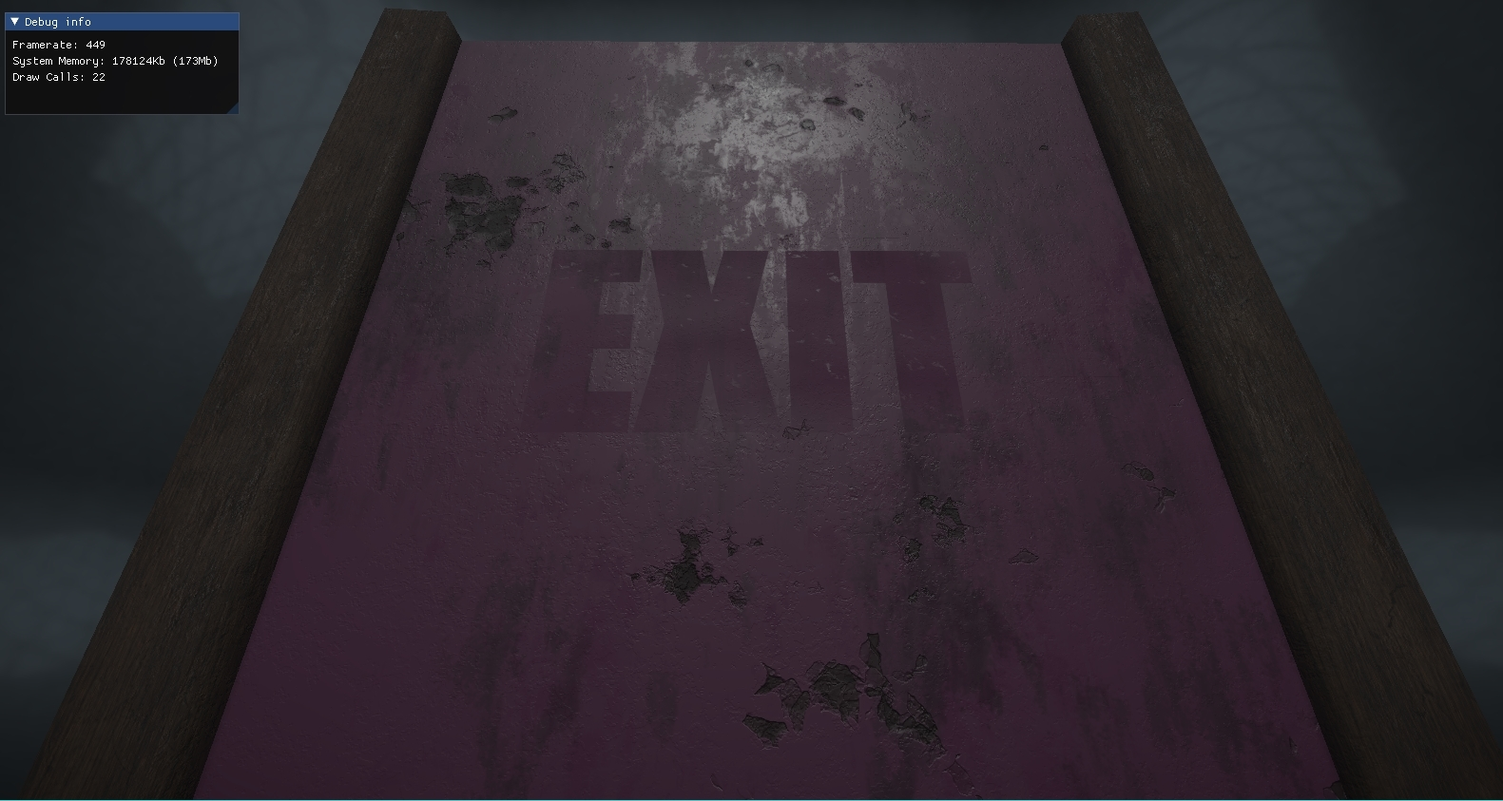
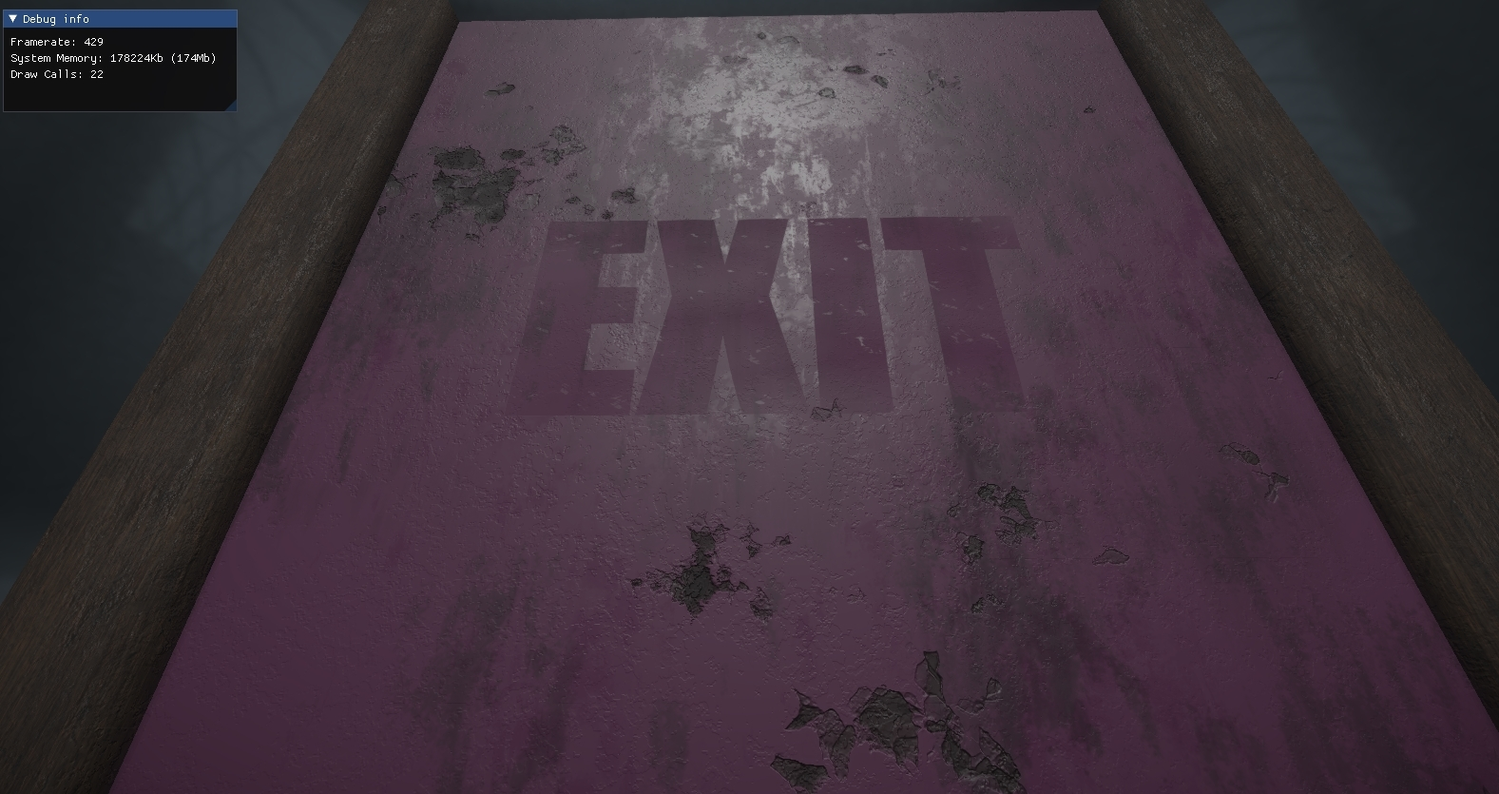
finished decal post

diff --git a/docs/2021-03-01/deferred-decals.html b/docs/2021-03-01/deferred-decals.html
@@ -97,7 +97,7 @@
         <article class="hentry">
 
             <div class="featured-image">
-            <img src="" style="width:100%">
+            <img src="/images/decal.gif" style="width:100%">
             </div>
 
             <!-- MAIN -->
@@ -119,19 +119,129 @@
 <h2 id="introduction">Introduction</h2>
 
 <p>I implemented deferred decals for our seventh game project at The Game Assembly.
-The decals were exported from Unity and rendered to the GBuffer in three separate passes depending on which textures to use; albedo, normal or “material”.</p>
+The decals were exported from Unity and rendered to the G-Buffer in three separate passes depending on which textures to use; albedo, normal or “material” (containing metalness, roughness, emissive and detail normal strength).</p>
 
-<p>Using three separate passes, there is no need to copy the GBuffer and you have higher flexibility regarding which textures to use and how to alpha blend the results.</p>
+<p>Using three separate passes, there is no need to copy the G-Buffer and you have higher flexibility regarding which textures to use and how to alpha blend the results.
+I chose to use a cube volume for projection due to its simplicity, held by the renderer and scaled by the game object transform component.</p>
 
 <h2 id="implementation">Implementation</h2>
 
-<p>I chose to use a cube volume for projection due to its simplicity, held by the renderer and scaled by the game object transform component.</p>
+<p>A decal factory receives data from the Unity export, including the filepath to a directory of textures to be used by the decal, and three flags representing which render passes to run for this specific decal. 
+The albedo, material and normal (also containing ambient occlusion information) textures are requested from a material handler utility, being set to <code class="language-plaintext highlighter-rouge">nullptr</code> should they not exist rather than receiving a pointer to an error texture. 
+Should any of the textures be <code class="language-plaintext highlighter-rouge">nullptr</code>, their respective flags are set to false.</p>
+
+<p>The decal render pass is run right after rendering the G-Buffer. If the three decal render passes were not separated, we would set the whole G-Buffer as our render target.
+If we then want to render different sets of textures for every decal, we would need to copy the whole G-Buffer and sample it in the shader so as to not overwrite the normals when we aren’t interested in the normals of the decal, for example. 
+The normal texture is still bound as a render target, and if we do not discard the run of the entire fragment shader (which we might not want) we are going to overwrite the G-Buffer normals.</p>
+
+<p><em>In the below GIFs there is no copying of the G-Buffer, and there is no writing to the material target (left) or normals target (right), even though they are still bound as render targets.</em></p>
+
+<center>
+    <div class="photoset-grid-custom" data-layout="2">
+        <img src="/images/missing_material.gif" />
+        <img src="/images/missing_normals.gif" />
+    </div>
+</center>
+
+<p>That said, if every decal we render renders information to the same targets, this is not an issue, and it becomes cheaper to make only one draw call.</p>
+
+<p>Since we wanted the freedom to render decals to any subset of the G-Buffer, I decided to render decals in different passes to avoid copying the G-Buffer. With this setup, different render targets can be set for every shader and you are guaranteed to not overwrite.</p>
+
+<details>
+  <summary><strong>View Code</strong></summary>
+
+  <div class="language-c++ highlighter-rouge"><div class="highlight"><pre class="highlight"><code><span class="kt">void</span> <span class="n">CDecalRenderer</span><span class="o">::</span><span class="n">Render</span><span class="p">(...)</span>
+<span class="p">{</span>
+    <span class="c1">// ... Bind state common to all decals</span>
+    
+    <span class="k">for</span> <span class="p">(</span><span class="k">auto</span><span class="o">&amp;</span> <span class="n">gameObject</span> <span class="o">:</span> <span class="n">someDecalGameObjects</span><span class="p">)</span>
+	<span class="p">{</span>
+		<span class="n">CDecalComponent</span><span class="o">*</span> <span class="n">decalComponent</span> <span class="o">=</span> <span class="n">gameObject</span><span class="o">-&gt;</span><span class="n">GetComponent</span><span class="o">&lt;</span><span class="n">CDecalComponent</span><span class="o">&gt;</span><span class="p">();</span>
+
+		<span class="n">CDecal</span><span class="o">*</span> <span class="n">decal</span> <span class="o">=</span> <span class="n">decalComponent</span><span class="o">-&gt;</span><span class="n">GetMyDecal</span><span class="p">();</span>
+		<span class="k">const</span> <span class="n">CDecal</span><span class="o">::</span><span class="n">SDecalData</span><span class="o">&amp;</span> <span class="n">decalData</span> <span class="o">=</span> <span class="n">decal</span><span class="o">-&gt;</span><span class="n">GetDecalData</span><span class="p">();</span>
+
+		<span class="n">myObjectBufferData</span><span class="p">.</span><span class="n">myToWorld</span> <span class="o">=</span> <span class="n">gameObject</span><span class="o">-&gt;</span><span class="n">myTransform</span><span class="o">-&gt;</span><span class="n">GetWorldMatrix</span><span class="p">();</span>
+		<span class="n">myObjectBufferData</span><span class="p">.</span><span class="n">myToObjectSpace</span> <span class="o">=</span> <span class="n">gameObject</span><span class="o">-&gt;</span><span class="n">myTransform</span><span class="o">-&gt;</span><span class="n">GetWorldMatrix</span><span class="p">().</span><span class="n">Invert</span><span class="p">();</span>
+		<span class="n">BindBuffer</span><span class="p">(</span><span class="n">myObjectBuffer</span><span class="p">,</span> <span class="n">myObjectBufferData</span><span class="p">,</span> <span class="s">"Object Buffer"</span><span class="p">);</span>
+
+		<span class="n">myContext</span><span class="o">-&gt;</span><span class="n">VSSetConstantBuffers</span><span class="p">(</span><span class="mi">1</span><span class="p">,</span> <span class="mi">1</span><span class="p">,</span> <span class="o">&amp;</span><span class="n">myObjectBuffer</span><span class="p">);</span>
+		<span class="n">myContext</span><span class="o">-&gt;</span><span class="n">PSSetConstantBuffers</span><span class="p">(</span><span class="mi">1</span><span class="p">,</span> <span class="mi">1</span><span class="p">,</span> <span class="o">&amp;</span><span class="n">myObjectBuffer</span><span class="p">);</span>
+		<span class="n">myContext</span><span class="o">-&gt;</span><span class="n">PSSetShaderResources</span><span class="p">(</span><span class="mi">5</span><span class="p">,</span> <span class="mi">3</span><span class="p">,</span> <span class="o">&amp;</span><span class="n">decalData</span><span class="p">.</span><span class="n">myMaterial</span><span class="p">[</span><span class="mi">0</span><span class="p">]);</span>
+
+                <span class="k">if</span> <span class="p">(</span><span class="n">decalData</span><span class="p">.</span><span class="n">myShouldRenderAlbedo</span><span class="p">)</span>
+                <span class="p">{</span>
+                    <span class="n">myContext</span><span class="o">-&gt;</span><span class="n">PSSetShader</span><span class="p">(</span><span class="n">myAlbedoPixelShader</span><span class="p">,</span> <span class="nb">nullptr</span><span class="p">,</span> <span class="mi">0</span><span class="p">);</span>
+                    <span class="n">myContext</span><span class="o">-&gt;</span><span class="n">DrawIndexed</span><span class="p">(</span><span class="n">myNumberOfIndices</span><span class="p">,</span> <span class="mi">0</span><span class="p">,</span> <span class="mi">0</span><span class="p">);</span>
+                    <span class="n">CRenderManager</span><span class="o">::</span><span class="n">myNumberOfDrawCallsThisFrame</span><span class="o">++</span><span class="p">;</span>
+                <span class="p">}</span>
+        
+                <span class="k">if</span> <span class="p">(</span><span class="n">decalData</span><span class="p">.</span><span class="n">myShouldRenderMaterial</span><span class="p">)</span>
+                <span class="p">{</span>
+                    <span class="n">myContext</span><span class="o">-&gt;</span><span class="n">PSSetShader</span><span class="p">(</span><span class="n">myMaterialPixelShader</span><span class="p">,</span> <span class="nb">nullptr</span><span class="p">,</span> <span class="mi">0</span><span class="p">);</span>
+                    <span class="n">myContext</span><span class="o">-&gt;</span><span class="n">DrawIndexed</span><span class="p">(</span><span class="n">myNumberOfIndices</span><span class="p">,</span> <span class="mi">0</span><span class="p">,</span> <span class="mi">0</span><span class="p">);</span>
+                    <span class="n">CRenderManager</span><span class="o">::</span><span class="n">myNumberOfDrawCallsThisFrame</span><span class="o">++</span><span class="p">;</span>
+                <span class="p">}</span>
+
+                <span class="k">if</span> <span class="p">(</span><span class="n">decalData</span><span class="p">.</span><span class="n">myShouldRenderNormals</span><span class="p">)</span>
+                <span class="p">{</span>
+                    <span class="n">myContext</span><span class="o">-&gt;</span><span class="n">PSSetShader</span><span class="p">(</span><span class="n">myNormalPixelShader</span><span class="p">,</span> <span class="nb">nullptr</span><span class="p">,</span> <span class="mi">0</span><span class="p">);</span>
+                    <span class="n">myContext</span><span class="o">-&gt;</span><span class="n">DrawIndexed</span><span class="p">(</span><span class="n">myNumberOfIndices</span><span class="p">,</span> <span class="mi">0</span><span class="p">,</span> <span class="mi">0</span><span class="p">);</span>
+                    <span class="n">CRenderManager</span><span class="o">::</span><span class="n">myNumberOfDrawCallsThisFrame</span><span class="o">++</span><span class="p">;</span>
+                <span class="p">}</span>
+	<span class="p">}</span>
+<span class="p">}</span>
+</code></pre></div>  </div>
+
+</details>
+
+<p>Then comes the issue of alpha blending. Setting up alpha blending between one source and one destination is simple, but as our material target of the G-Buffer (which is <em>not</em> identical to the material texture of the decal) contains metalness, roughness, emissive and ambient occlusion, one has to be sacrificed as the alpha blending channel.</p>
+
+<p>In the current implementation, I chose to sacrifice ambient occlusion on the decals and to sample the alpha level from the albedo texture. This means that even though we don’t render the decal to the albedo target, an albedo shader resource must still be bound. 
+For the normals, the fourth component is unoccupied (since we moved the ambient occlusion from the normal texture to the material target), and also samples from the albedo shader resource.
+One could imagine having the graphical artists work the transparency into the material and normal textures for decals, but I judged this solution as simpler for us.</p>
+
+<details>
+  <summary><strong>View Code</strong></summary>
+
+  <div class="language-hlsl highlighter-rouge"><div class="highlight"><pre class="highlight"><code><span class="c1">// Decal_MaterialPixelShader.hlsl</span>
+<span class="cp">#include "DecalShaderStructs.hlsli"
+</span>
+<span class="kt">float4</span> <span class="nf">main</span><span class="p">(</span><span class="n">VertexToPixel</span> <span class="n">input</span><span class="p">)</span> <span class="o">:</span> <span class="n">SV_TARGET3</span>
+<span class="p">{</span>
+    <span class="kt">float3</span> <span class="n">clipSpace</span> <span class="o">=</span> <span class="n">input</span><span class="p">.</span><span class="n">myClipSpacePosition</span><span class="p">;</span>
+    <span class="n">clipSpace</span><span class="p">.</span><span class="n">y</span> <span class="o">*=</span> <span class="o">-</span><span class="mi">1</span><span class="p">.</span><span class="mi">0</span><span class="n">f</span><span class="p">;</span>
+    <span class="kt">float2</span> <span class="n">screenSpaceUV</span> <span class="o">=</span> <span class="p">(</span><span class="n">clipSpace</span><span class="p">.</span><span class="n">xy</span> <span class="o">/</span> <span class="n">clipSpace</span><span class="p">.</span><span class="n">z</span><span class="p">)</span> <span class="o">*</span> <span class="mi">0</span><span class="p">.</span><span class="mi">5</span><span class="n">f</span> <span class="o">+</span> <span class="mi">0</span><span class="p">.</span><span class="mi">5</span><span class="n">f</span><span class="p">;</span>
+    
+    <span class="n">float</span> <span class="n">z</span> <span class="o">=</span> <span class="n">depthTexture</span><span class="p">.</span><span class="n">Sample</span><span class="p">(</span><span class="n">defaultSampler</span><span class="p">,</span> <span class="n">screenSpaceUV</span><span class="p">).</span><span class="n">r</span><span class="p">;</span>
+    <span class="n">float</span> <span class="n">x</span> <span class="o">=</span> <span class="n">screenSpaceUV</span><span class="p">.</span><span class="n">x</span> <span class="o">*</span> <span class="mi">2</span><span class="p">.</span><span class="mi">0</span><span class="n">f</span> <span class="o">-</span> <span class="mi">1</span><span class="p">;</span>
+    <span class="n">float</span> <span class="n">y</span> <span class="o">=</span> <span class="p">(</span><span class="mi">1</span> <span class="o">-</span> <span class="n">screenSpaceUV</span><span class="p">.</span><span class="n">y</span><span class="p">)</span> <span class="o">*</span> <span class="mi">2</span><span class="p">.</span><span class="mi">0</span><span class="n">f</span> <span class="o">-</span> <span class="mi">1</span><span class="p">;</span>
+    <span class="kt">float4</span> <span class="n">projectedPos</span> <span class="o">=</span> <span class="kt">float4</span><span class="p">(</span><span class="n">x</span><span class="p">,</span> <span class="n">y</span><span class="p">,</span> <span class="n">z</span><span class="p">,</span> <span class="mi">1</span><span class="p">.</span><span class="mi">0</span><span class="n">f</span><span class="p">);</span>
+    <span class="kt">float4</span> <span class="n">viewSpacePos</span> <span class="o">=</span> <span class="nb">mul</span><span class="p">(</span><span class="n">toCameraFromProjection</span><span class="p">,</span> <span class="n">projectedPos</span><span class="p">);</span>
+    <span class="n">viewSpacePos</span> <span class="o">/=</span> <span class="n">viewSpacePos</span><span class="p">.</span><span class="n">w</span><span class="p">;</span>
+    <span class="kt">float4</span> <span class="n">worldPosFromDepth</span> <span class="o">=</span> <span class="nb">mul</span><span class="p">(</span><span class="n">toWorldFromCamera</span><span class="p">,</span> <span class="n">viewSpacePos</span><span class="p">);</span>
+    
+    <span class="kt">float4</span> <span class="n">objectPosition</span> <span class="o">=</span> <span class="nb">mul</span><span class="p">(</span><span class="n">toObjectSpace</span><span class="p">,</span> <span class="n">worldPosFromDepth</span><span class="p">);</span>
+    <span class="nb">clip</span><span class="p">(</span><span class="mi">0</span><span class="p">.</span><span class="mi">5</span><span class="n">f</span> <span class="o">-</span> <span class="nb">abs</span><span class="p">(</span><span class="n">objectPosition</span><span class="p">.</span><span class="n">xyz</span><span class="p">));</span>
+    <span class="kt">float2</span> <span class="n">decalUV</span> <span class="o">=</span> <span class="n">objectPosition</span><span class="p">.</span><span class="n">xy</span> <span class="o">+</span> <span class="mi">0</span><span class="p">.</span><span class="mi">5</span><span class="n">f</span><span class="p">;</span>
+    <span class="n">decalUV</span><span class="p">.</span><span class="n">y</span> <span class="o">*=</span> <span class="o">-</span><span class="mi">1</span><span class="p">.</span><span class="mi">0</span><span class="n">f</span><span class="p">;</span>
+
+    <span class="kt">float3</span> <span class="n">material</span> <span class="o">=</span> <span class="n">materialTexture</span><span class="p">.</span><span class="n">Sample</span><span class="p">(</span><span class="n">defaultSampler</span><span class="p">,</span> <span class="n">decalUV</span><span class="p">).</span><span class="n">rgb</span><span class="p">;</span>
+    <span class="n">float</span> <span class="n">alpha</span> <span class="o">=</span> <span class="n">albedoTexture</span><span class="p">.</span><span class="n">Sample</span><span class="p">(</span><span class="n">defaultSampler</span><span class="p">,</span> <span class="n">decalUV</span><span class="p">).</span><span class="n">a</span><span class="p">;</span>
+	
+    <span class="k">return</span> <span class="kt">float4</span><span class="p">(</span><span class="n">material</span><span class="p">.</span><span class="n">rgb</span><span class="p">,</span> <span class="n">alpha</span><span class="p">);</span>
+<span class="p">}</span>
+</code></pre></div>  </div>
+
+</details>
+
+<p>The three screen shots below depict a decal being rendered to different parts of the G-Buffer. Left is only albedo, using the material and normal information already stored in the G-Buffer, middle is only material, and right is only normals.</p>
 
 <center>
     <div class="photoset-grid-custom" data-layout="3">
         <img src="/images/decal_albedo.jpg" />
-        <img src="/images/decal_normal.jpg" />
         <img src="/images/decal_material.jpg" />
+        <img src="/images/decal_normal.jpg" />
     </div>
 </center>
 

diff --git a/docs/highlights/index.html b/docs/highlights/index.html
@@ -154,7 +154,7 @@
     <!--POST FEATURED IMAGE-->
     <div class="featured-image">
         <center>
-            <img src="/images/vfx-editor.png" style="width:100%">
+            <img src="/images/vfx_editor_gif.gif" style="width:100%">
         </center>
     </div>
 
@@ -203,7 +203,7 @@
     <!--POST FEATURED IMAGE-->
     <div class="featured-image">
         <center>
-            <img src="" style="width:100%">
+            <img src="/images/decal.gif" style="width:100%">
         </center>
     </div>
 

diff --git a/docs/index.html b/docs/index.html
@@ -200,7 +200,7 @@
     <!--POST FEATURED IMAGE-->
     <div class="featured-image">
         <center>
-            <img src="/images/vfx-editor.png" style="width:100%">
+            <img src="/images/vfx_editor_gif.gif" style="width:100%">
         </center>
     </div>
 
@@ -249,7 +249,7 @@
     <!--POST FEATURED IMAGE-->
     <div class="featured-image">
         <center>
-            <img src="" style="width:100%">
+            <img src="/images/decal.gif" style="width:100%">
         </center>
     </div>
 

diff --git a/docs/2021-03-30/vfx-editor.html b/docs/2021-03-30/vfx-editor.html
@@ -97,7 +97,7 @@
         <article class="hentry">
 
             <div class="featured-image">
-            <img src="/images/vfx-editor.png" style="width:100%">
+            <img src="/images/vfx_editor_gif.gif" style="width:100%">
             </div>
 
             <!-- MAIN -->

diff --git a/highlights/_posts/2021-03-01-deferred-decals.md b/highlights/_posts/2021-03-01-deferred-decals.md
@@ -2,6 +2,7 @@
 layout: post
 categories: highlights
 title: Deferred Decals
+featured-image: /images/decal.gif
 tags: [deferred rendering, decals, rendering]
 date-string: MARCH 01, 2021
 ---
@@ -12,19 +13,133 @@ date-string: MARCH 01, 2021
 ## Introduction
 
 I implemented deferred decals for our seventh game project at The Game Assembly.
-The decals were exported from Unity and rendered to the GBuffer in three separate passes depending on which textures to use; albedo, normal or "material".
+The decals were exported from Unity and rendered to the G-Buffer in three separate passes depending on which textures to use; albedo, normal or "material" (containing metalness, roughness, emissive and detail normal strength).
 
-Using three separate passes, there is no need to copy the GBuffer and you have higher flexibility regarding which textures to use and how to alpha blend the results.
+Using three separate passes, there is no need to copy the G-Buffer and you have higher flexibility regarding which textures to use and how to alpha blend the results.
+I chose to use a cube volume for projection due to its simplicity, held by the renderer and scaled by the game object transform component.
 
 ## Implementation
 
-I chose to use a cube volume for projection due to its simplicity, held by the renderer and scaled by the game object transform component.
+A decal factory receives data from the Unity export, including the filepath to a directory of textures to be used by the decal, and three flags representing which render passes to run for this specific decal. 
+The albedo, material and normal (also containing ambient occlusion information) textures are requested from a material handler utility, being set to `nullptr` should they not exist rather than receiving a pointer to an error texture. 
+Should any of the textures be `nullptr`, their respective flags are set to false.
+
+The decal render pass is run right after rendering the G-Buffer. If the three decal render passes were not separated, we would set the whole G-Buffer as our render target.
+If we then want to render different sets of textures for every decal, we would need to copy the whole G-Buffer and sample it in the shader so as to not overwrite the normals when we aren't interested in the normals of the decal, for example. 
+The normal texture is still bound as a render target, and if we do not discard the run of the entire fragment shader (which we might not want) we are going to overwrite the G-Buffer normals.
+
+*In the below GIFs there is no copying of the G-Buffer, and there is no writing to the material target (left) or normals target (right), even though they are still bound as render targets.*
+
+<center>
+    <div class="photoset-grid-custom" data-layout="2">
+        <img src="/images/missing_material.gif">
+        <img src="/images/missing_normals.gif">
+    </div>
+</center>
+
+That said, if every decal we render renders information to the same targets, this is not an issue, and it becomes cheaper to make only one draw call.
+
+Since we wanted the freedom to render decals to any subset of the G-Buffer, I decided to render decals in different passes to avoid copying the G-Buffer. With this setup, different render targets can be set for every shader and you are guaranteed to not overwrite. 
+
+{::options parse_block_html="true" /}
+<details><summary markdown="span">**View Code**</summary>
+
+```c++
+void CDecalRenderer::Render(...)
+{
+    // ... Bind state common to all decals
+    
+    for (auto& gameObject : someDecalGameObjects)
+	{
+		CDecalComponent* decalComponent = gameObject->GetComponent<CDecalComponent>();
+
+		CDecal* decal = decalComponent->GetMyDecal();
+		const CDecal::SDecalData& decalData = decal->GetDecalData();
+
+		myObjectBufferData.myToWorld = gameObject->myTransform->GetWorldMatrix();
+		myObjectBufferData.myToObjectSpace = gameObject->myTransform->GetWorldMatrix().Invert();
+		BindBuffer(myObjectBuffer, myObjectBufferData, "Object Buffer");
+
+		myContext->VSSetConstantBuffers(1, 1, &myObjectBuffer);
+		myContext->PSSetConstantBuffers(1, 1, &myObjectBuffer);
+		myContext->PSSetShaderResources(5, 3, &decalData.myMaterial[0]);
+
+                if (decalData.myShouldRenderAlbedo)
+                {
+                    myContext->PSSetShader(myAlbedoPixelShader, nullptr, 0);
+                    myContext->DrawIndexed(myNumberOfIndices, 0, 0);
+                    CRenderManager::myNumberOfDrawCallsThisFrame++;
+                }
+        
+                if (decalData.myShouldRenderMaterial)
+                {
+                    myContext->PSSetShader(myMaterialPixelShader, nullptr, 0);
+                    myContext->DrawIndexed(myNumberOfIndices, 0, 0);
+                    CRenderManager::myNumberOfDrawCallsThisFrame++;
+                }
+
+                if (decalData.myShouldRenderNormals)
+                {
+                    myContext->PSSetShader(myNormalPixelShader, nullptr, 0);
+                    myContext->DrawIndexed(myNumberOfIndices, 0, 0);
+                    CRenderManager::myNumberOfDrawCallsThisFrame++;
+                }
+	}
+}
+```
+
+</details>
+{::options parse_block_html="false" /}
+
+Then comes the issue of alpha blending. Setting up alpha blending between one source and one destination is simple, but as our material target of the G-Buffer (which is *not* identical to the material texture of the decal) contains metalness, roughness, emissive and ambient occlusion, one has to be sacrificed as the alpha blending channel.
+
+In the current implementation, I chose to sacrifice ambient occlusion on the decals and to sample the alpha level from the albedo texture. This means that even though we don't render the decal to the albedo target, an albedo shader resource must still be bound. 
+For the normals, the fourth component is unoccupied (since we moved the ambient occlusion from the normal texture to the material target), and also samples from the albedo shader resource.
+One could imagine having the graphical artists work the transparency into the material and normal textures for decals, but I judged this solution as simpler for us. 
+
+{::options parse_block_html="true" /}
+<details><summary markdown="span">**View Code**</summary>
+
+```hlsl
+// Decal_MaterialPixelShader.hlsl
+#include "DecalShaderStructs.hlsli"
+
+float4 main(VertexToPixel input) : SV_TARGET3
+{
+    float3 clipSpace = input.myClipSpacePosition;
+    clipSpace.y *= -1.0f;
+    float2 screenSpaceUV = (clipSpace.xy / clipSpace.z) * 0.5f + 0.5f;
+    
+    float z = depthTexture.Sample(defaultSampler, screenSpaceUV).r;
+    float x = screenSpaceUV.x * 2.0f - 1;
+    float y = (1 - screenSpaceUV.y) * 2.0f - 1;
+    float4 projectedPos = float4(x, y, z, 1.0f);
+    float4 viewSpacePos = mul(toCameraFromProjection, projectedPos);
+    viewSpacePos /= viewSpacePos.w;
+    float4 worldPosFromDepth = mul(toWorldFromCamera, viewSpacePos);
+    
+    float4 objectPosition = mul(toObjectSpace, worldPosFromDepth);
+    clip(0.5f - abs(objectPosition.xyz));
+    float2 decalUV = objectPosition.xy + 0.5f;
+    decalUV.y *= -1.0f;
+
+    float3 material = materialTexture.Sample(defaultSampler, decalUV).rgb;
+    float alpha = albedoTexture.Sample(defaultSampler, decalUV).a;
+	
+    return float4(material.rgb, alpha);
+}
+```
+
+</details>
+{::options parse_block_html="false" /}
+
+The three screen shots below depict a decal being rendered to different parts of the G-Buffer. Left is only albedo, using the material and normal information already stored in the G-Buffer, middle is only material, and right is only normals.
 
 <center>
     <div class="photoset-grid-custom" data-layout="3">
         <img src="/images/decal_albedo.jpg">
-        <img src="/images/decal_normal.jpg">
         <img src="/images/decal_material.jpg">
+        <img src="/images/decal_normal.jpg">
     </div>
 </center>
 

diff --git a/highlights/_posts/2021-04-06-specialization.md b/highlights/_posts/2021-04-06-specialization.md
@@ -32,8 +32,6 @@ An upper limit on the ray marched distance is set using this difference prior to
 {::options parse_block_html="true" /}
 <details><summary markdown="span">**View Code**</summary>
 
-
-
 ```hlsl
 PixelOutput main(VertexToPixel input)
 {

diff --git a/highlights/_posts/2021-03-30-vfx-editor.md b/highlights/_posts/2021-03-30-vfx-editor.md
@@ -2,7 +2,7 @@
 layout: post
 categories: highlights
 title: "VFX Editor using ImGui"
-featured-image: /images/vfx-editor.png
+featured-image: /images/vfx_editor_gif.gif
 tags: [vfx, imgui, tools]
 date-string: MARCH 30, 2021
 ---
